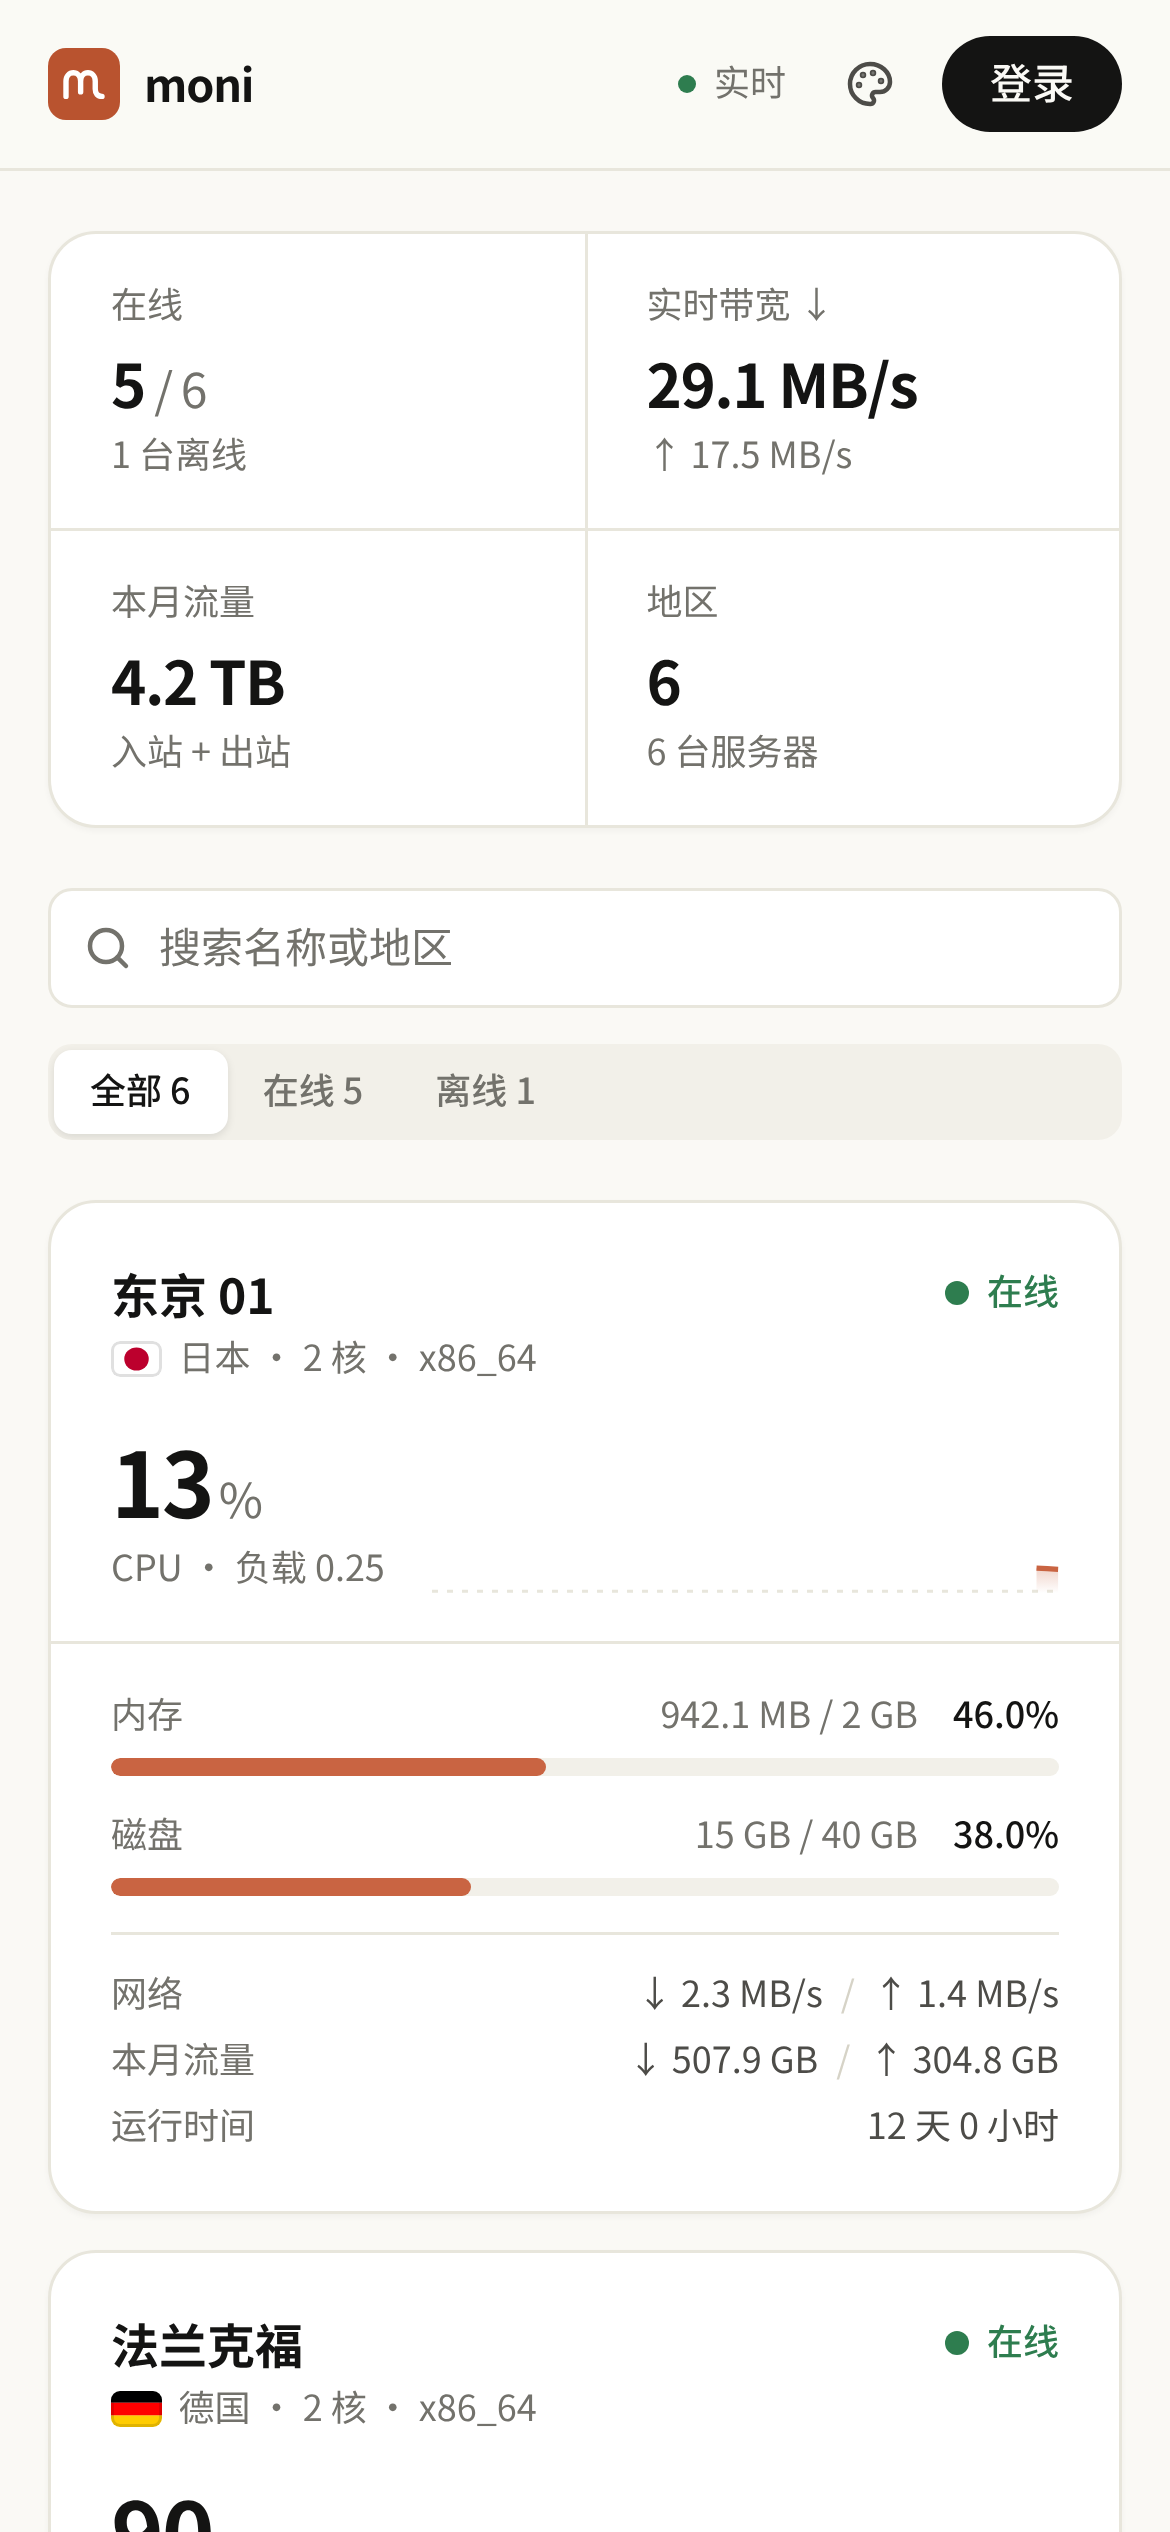
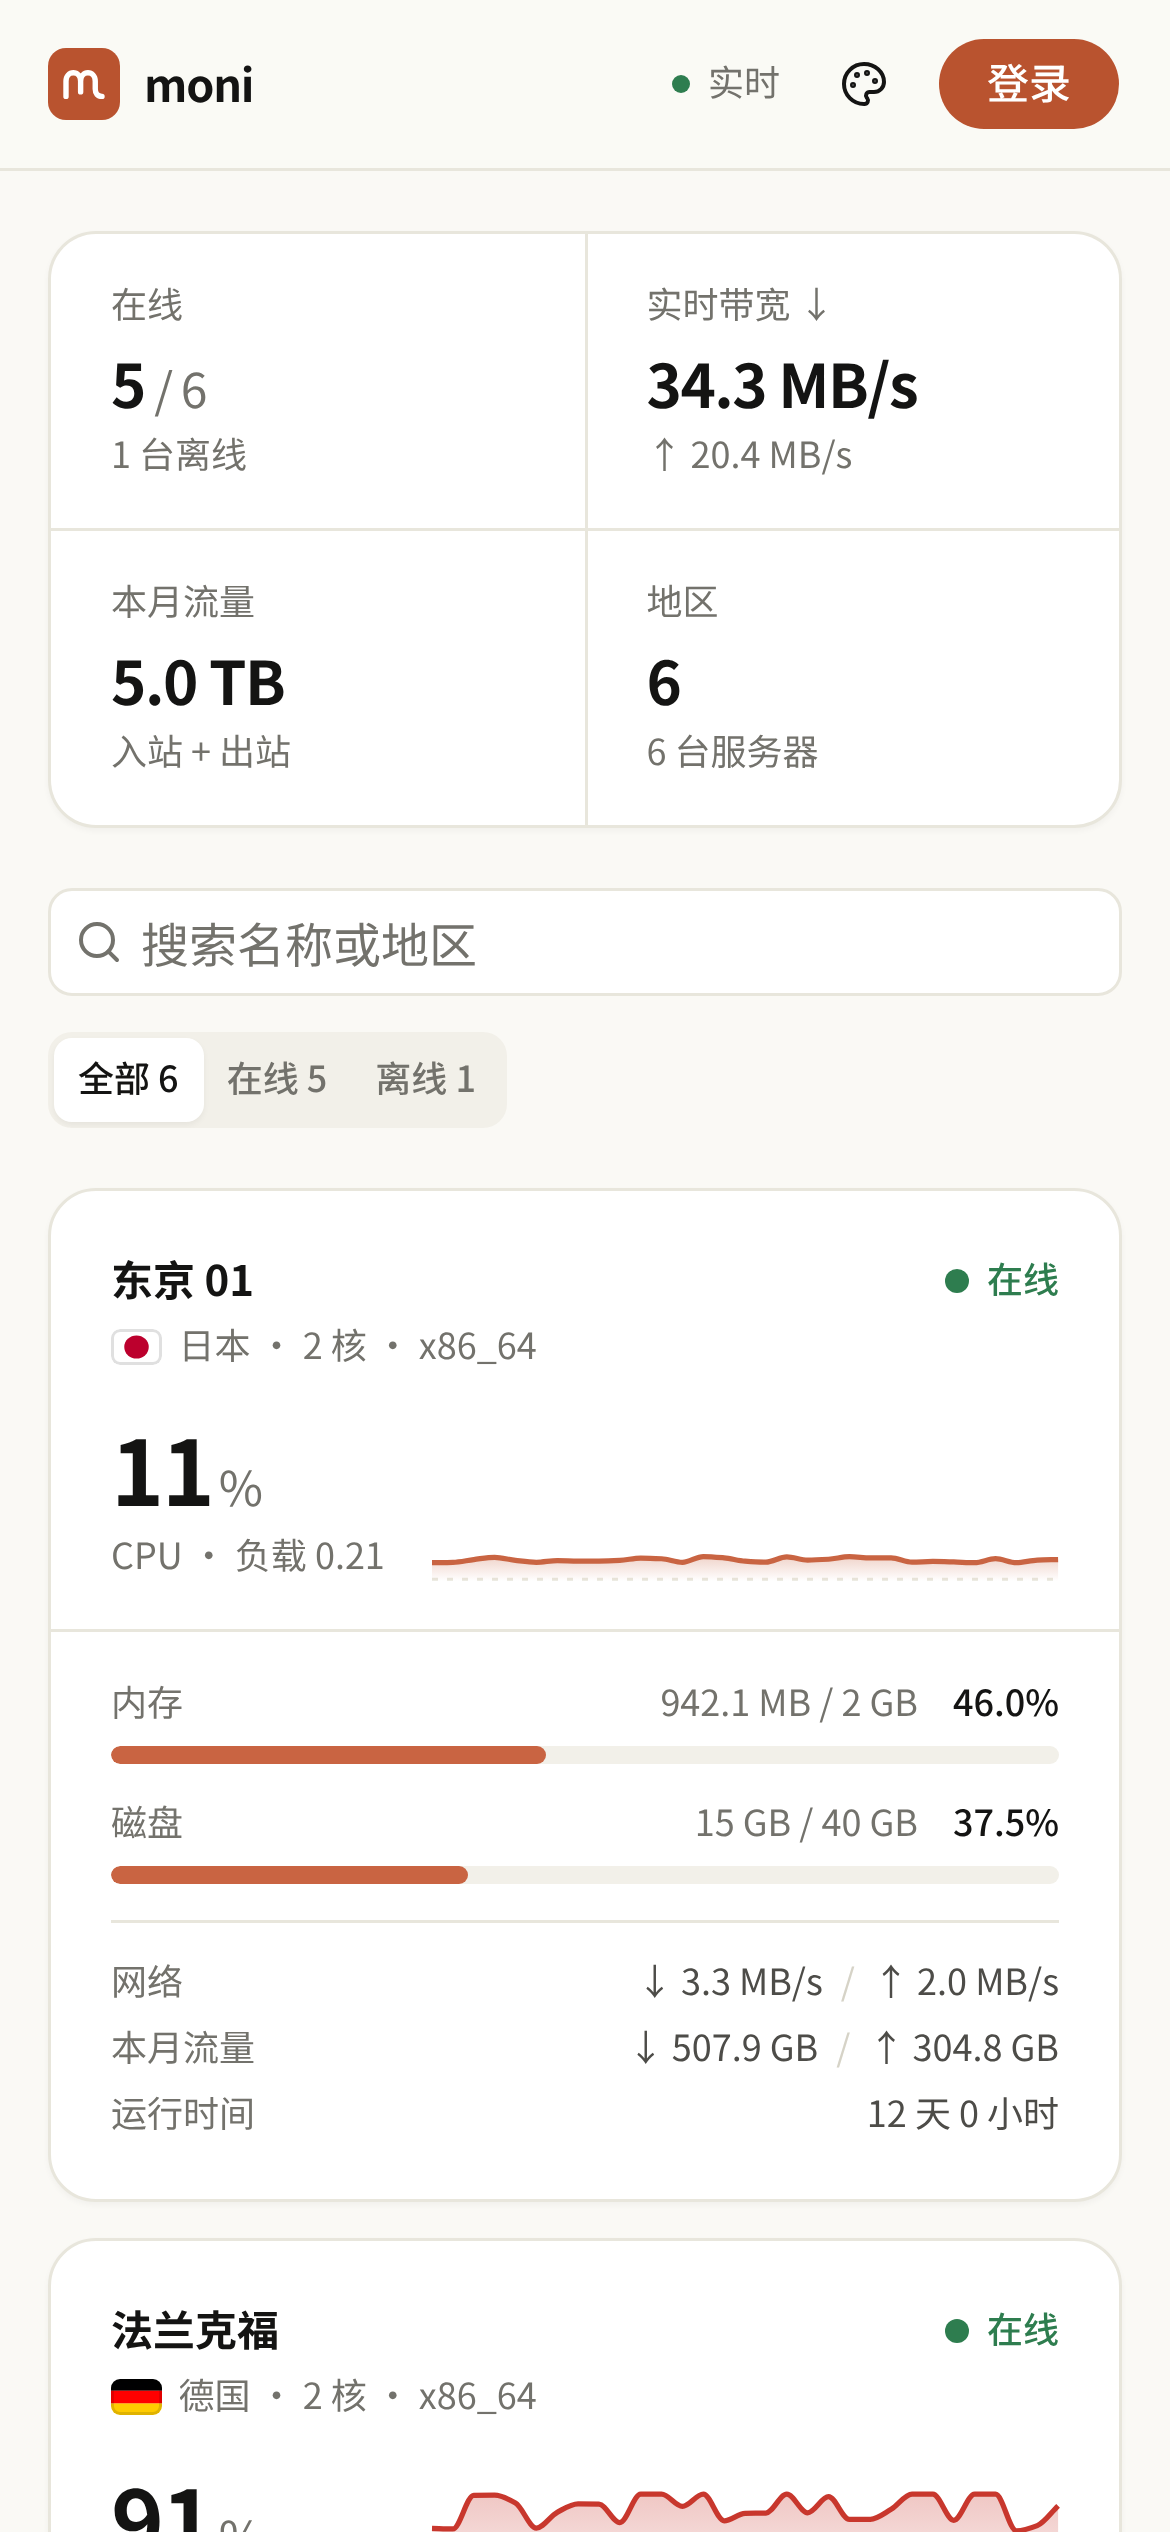
docs: regenerate README screenshots from a mock-data script
web/tests/screenshots.mjs serves the built dashboard with mocked /api
and dashboard socket, so `pnpm --filter moni-web screenshots` refreshes
docs/screenshots without a Worker.

diff --git a/README.md b/README.md
@@ -106,6 +106,7 @@ pnpm build:web
 pnpm dev                                      # http://127.0.0.1:8787
 cargo run -p moni-agent -- --server ws://127.0.0.1:8787/ws/agent --token mn_xxx_yyy
 scripts/e2e.sh --quick --ui                   # 端到端测试 + 浏览器冒烟测试
+pnpm --filter moni-web screenshots           # 用模拟数据重新生成 docs/screenshots
 ```
 
 ## 常见问题

diff --git a/README.en.md b/README.en.md
@@ -108,6 +108,7 @@ pnpm build:web
 pnpm dev                                      # http://127.0.0.1:8787
 cargo run -p moni-agent -- --server ws://127.0.0.1:8787/ws/agent --token mn_xxx_yyy
 scripts/e2e.sh --quick --ui                   # end-to-end tests + browser smoke test
+pnpm --filter moni-web screenshots           # regenerate docs/screenshots from mock data
 ```
 
 ## FAQ
